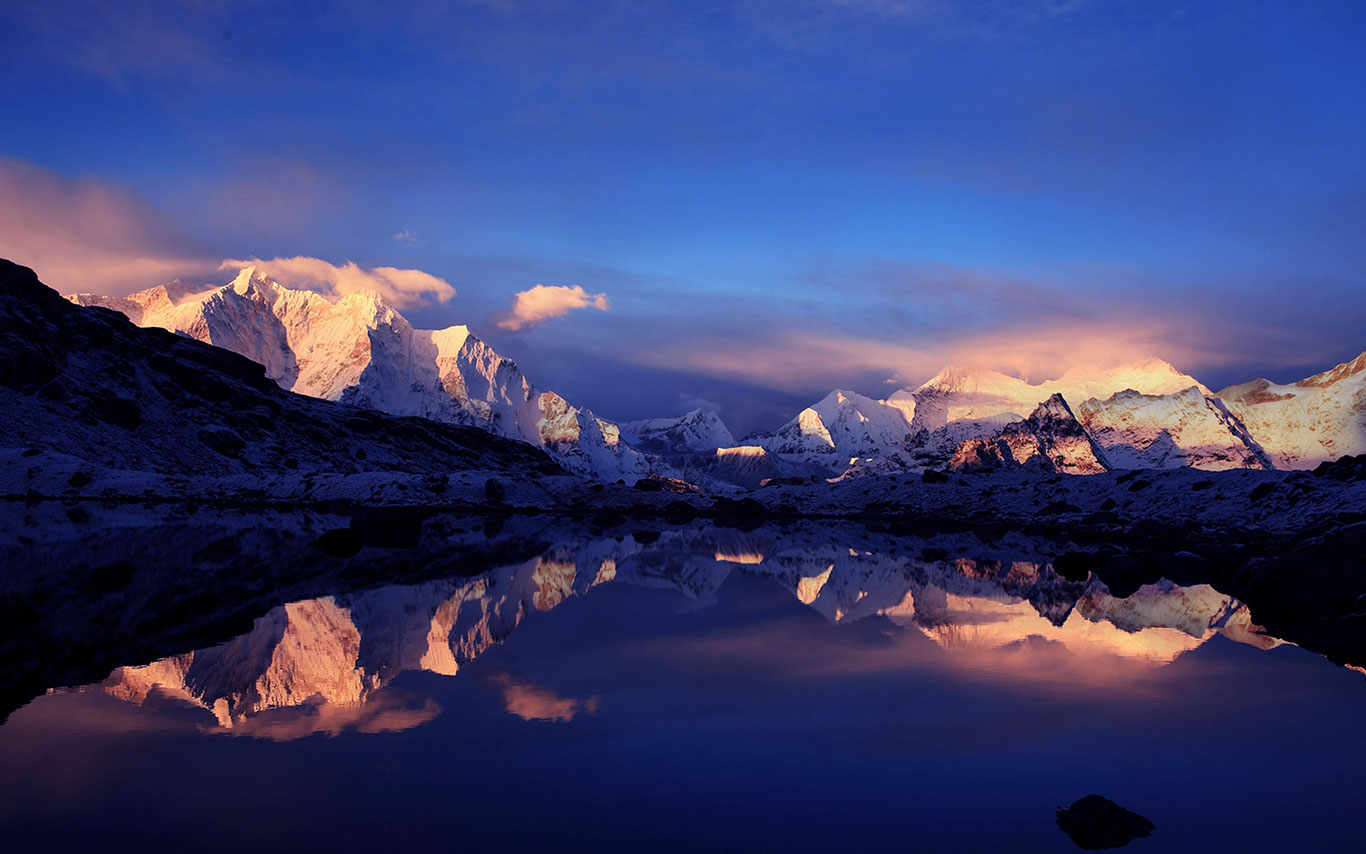
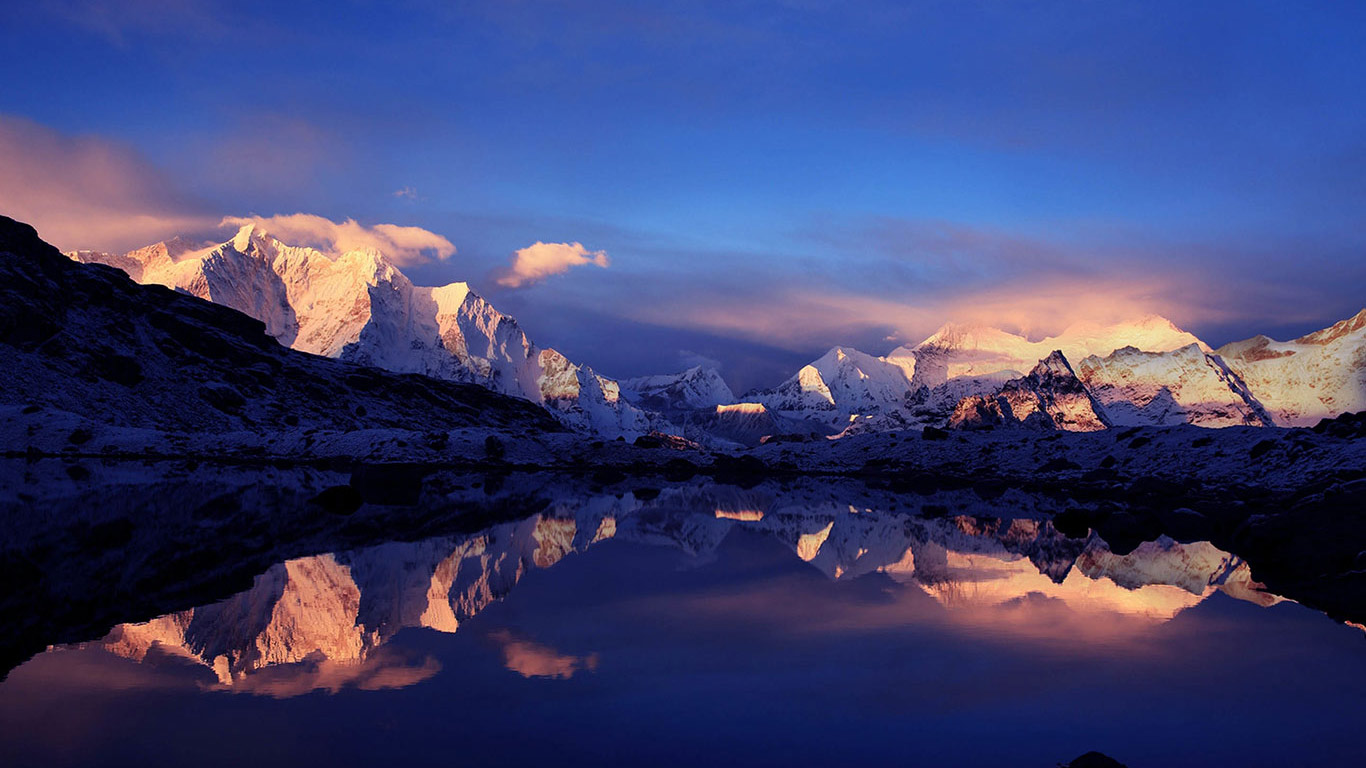
change image

diff --git a/css/index.css b/css/index.css
@@ -15,12 +15,14 @@ body{
 #bg1{
 	background-image: url(../images/1.jpg);
 	background-repeat: no-repeat;
+	background-position: center;
 	width: 100%;
-	height: 100%; 
+	height: 100%;
 }
 #bg2{
 	background-image: url(../images/2.jpg);
 	background-repeat: no-repeat;
+    background-position: center;
 	width: 100%;
 	height: 100%;
 }
